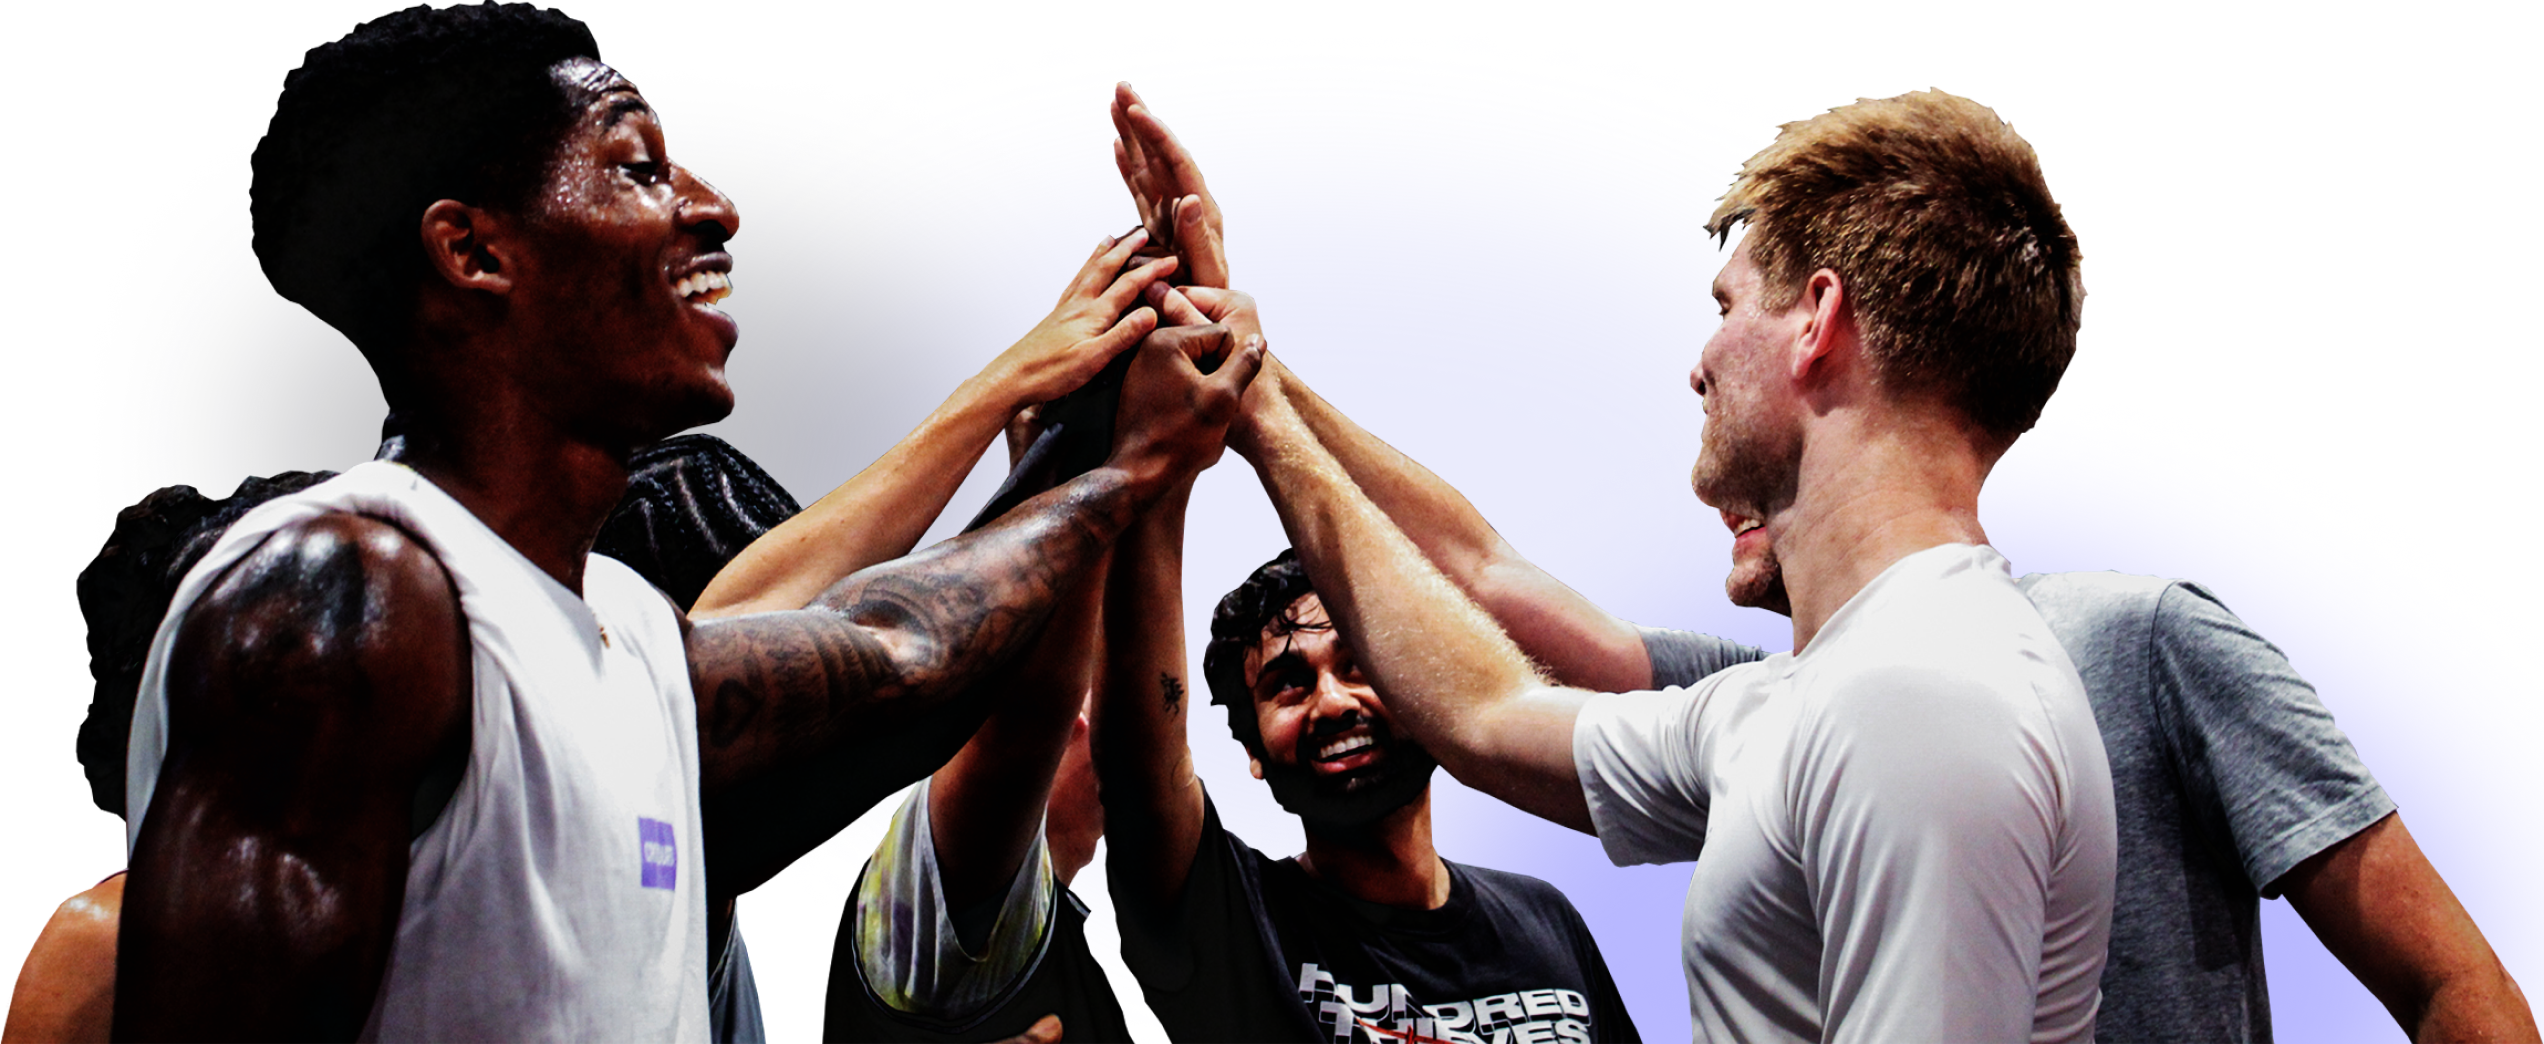
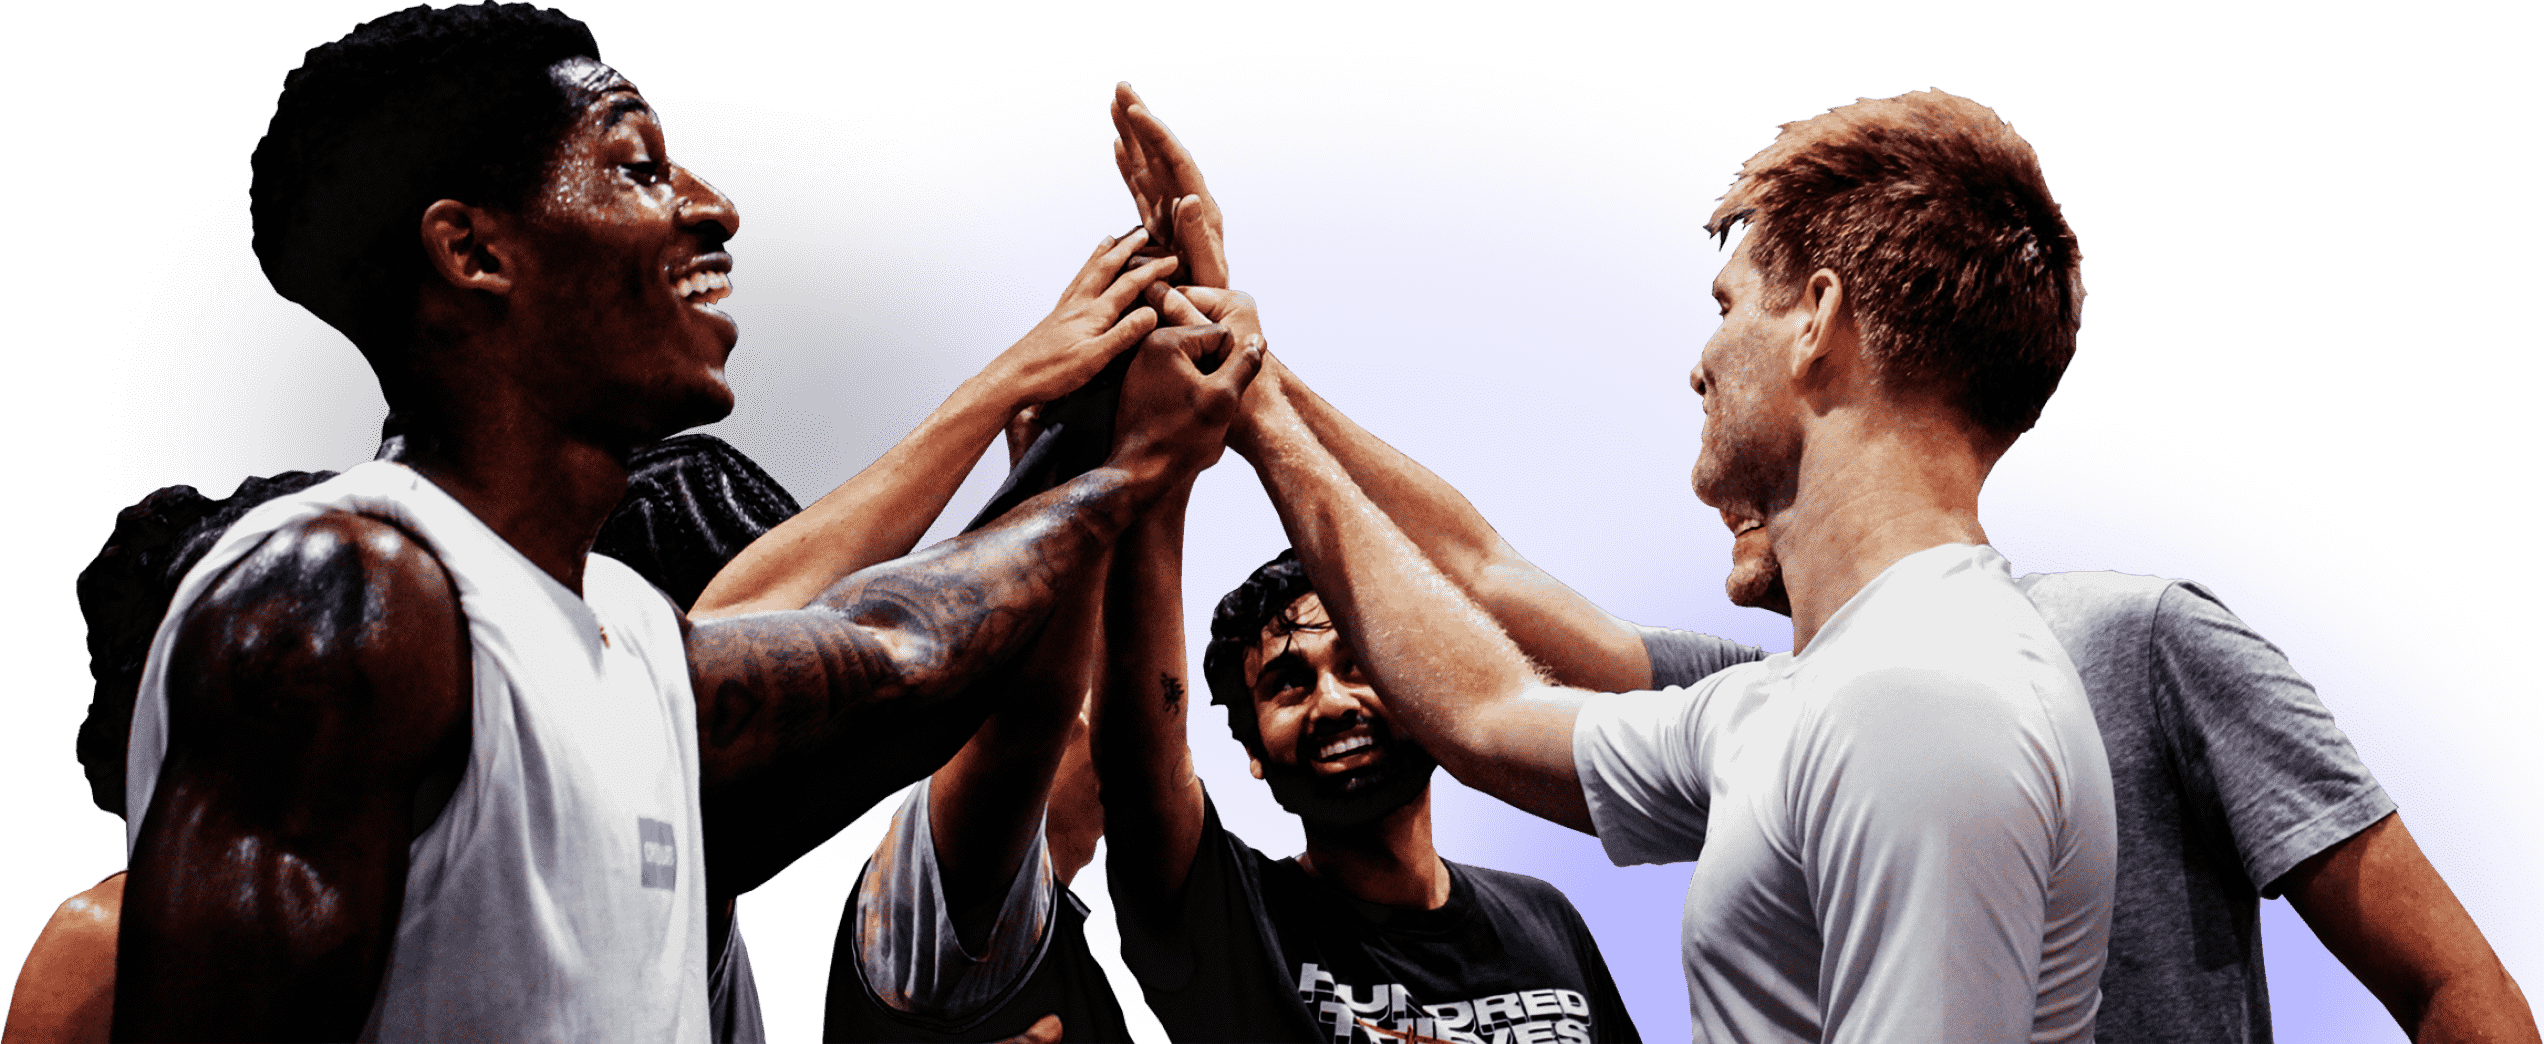
Reduce img size

diff --git a/src/screens/why-join/sections/Create.jsx b/src/screens/why-join/sections/Create.jsx
@@ -6,8 +6,8 @@ import SectionLayout from 'shared/components/layout/SectionLayout';
 import ExpandedLayout from 'shared/components/layout/ExpandedLayout';
 import VideoPlayer from 'shared/components/VideoPlayer';
 
+import highFive from 'screens/why-join/images/high-five-2.jpg';
 import dotsBgImg from 'shared/images/backgrounds/dots.png';
-import highFive from 'screens/why-join/images/high-five-2.png';
 import sklz from 'screens/why-join/images/sklz.png';
 import openClub from 'screens/why-join/images/open-club.png';
 import phone from 'screens/why-join/images/phone.png';

diff --git a/src/screens/why-join/sections/TheBest.jsx b/src/screens/why-join/sections/TheBest.jsx
@@ -11,7 +11,7 @@ const TheBest = () => (
       <span className="text-cc-purple">OUR best</span>, not THE best.
     </h2>
     <ExpandedLayout mdBreakpoint={false} lgBreakpoint={false} xlBreakpoint={false}>
-      <img src={HighFive} alt="High Five" loading="lazy" />
+      <img src={HighFive} alt="High Five" />
     </ExpandedLayout>
   </SectionLayout>
 );
